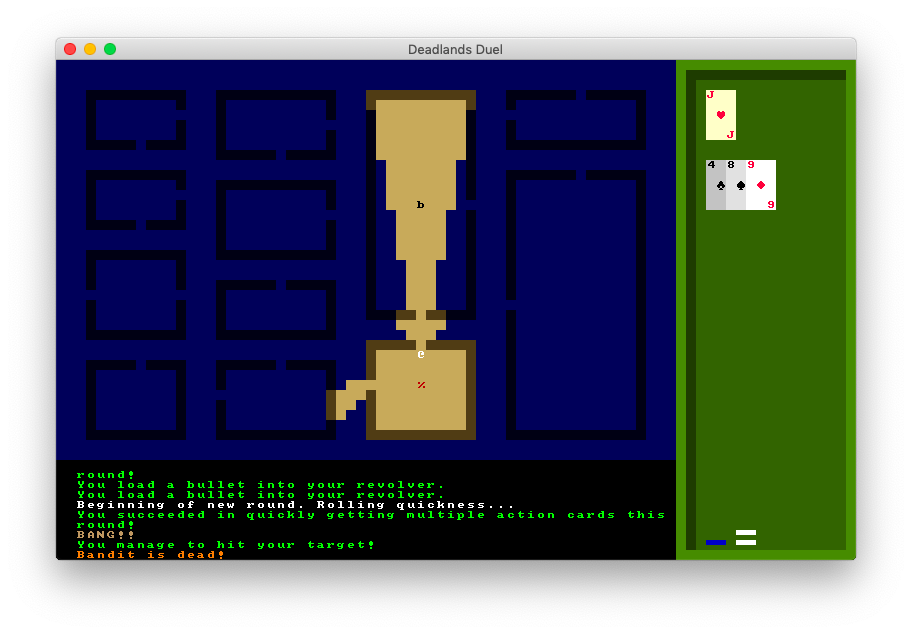
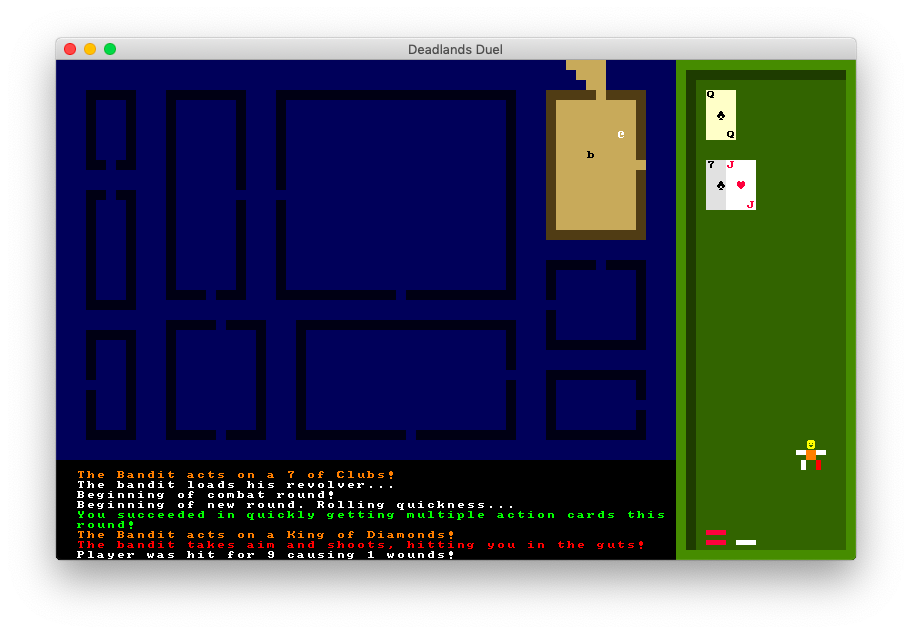
New screenshot

diff --git a/renderengine.py b/renderengine.py
@@ -130,7 +130,7 @@ def render_cardtable(cardtable, player_hand, active_card, player_fate, body_woun
             render_chip(cardtable, color, chip_x, (chip_y - i))
         chip_x += 3
 
-    render_player_wounds(cardtable, cardtable.width - 7, cardtable.height - 10, body_wounds)
+    render_player_wounds(cardtable, cardtable.width - 6, cardtable.height - 12, body_wounds)
 
 
 def render_all(root_console, entities, mapcon, game_map, cardtable, cardtable_x, player_hand, active_card, player_fate, panel, panel_y, message_log, body_wounds):
